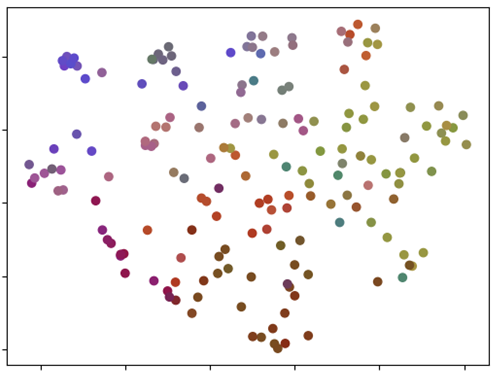
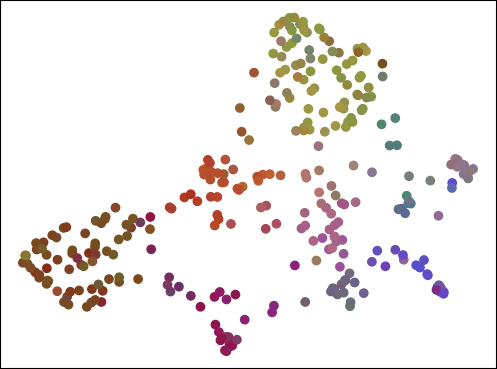
Added additional decks to EWlinks.csv. Updates to analysis for better results.

diff --git a/DraftAnalysis.py b/DraftAnalysis.py
@@ -109,17 +109,17 @@ Xidf = tfidf.transform(X)
 temp_color = deck_color[3635:,:]
 
 #%%
-N = NMF(n_components=20).fit(Xidf)
+N = NMF(n_components=16).fit(Xidf)
 c = N.components_
 C = N.transform(Xidf)
-U = UMAP(n_neighbors=60).fit_transform(C)
+U = UMAP(n_neighbors=60, metric='braycurtis').fit_transform(C)
 plt.scatter(U[:,0],U[:,1],c=temp_color/255*1.5)
 
 factions = np.matmul(C.T, deck_inf[3635:,:])
 factions = factions / np.sum(factions, axis=1, keepdims=True)
 
 #%%
-H = HDBSCAN(min_cluster_size=3).fit(C)
+H = HDBSCAN(min_cluster_size=5, metric='braycurtis').fit(C)
 cent = []
 for i in range(H.labels_.max()+1):
     cent.append(np.median(C[H.labels_==i, :], axis=0))
